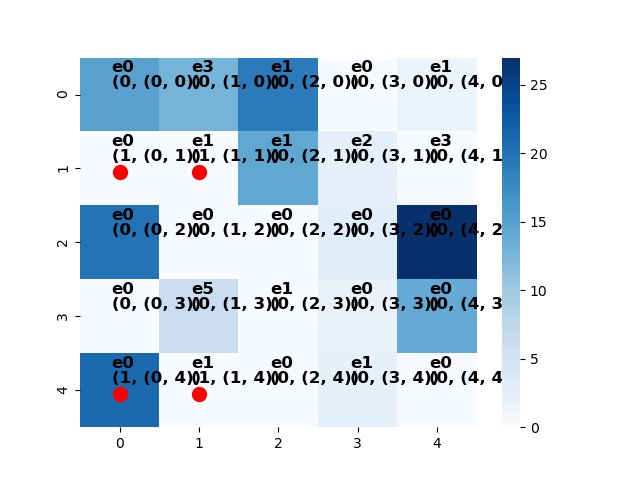
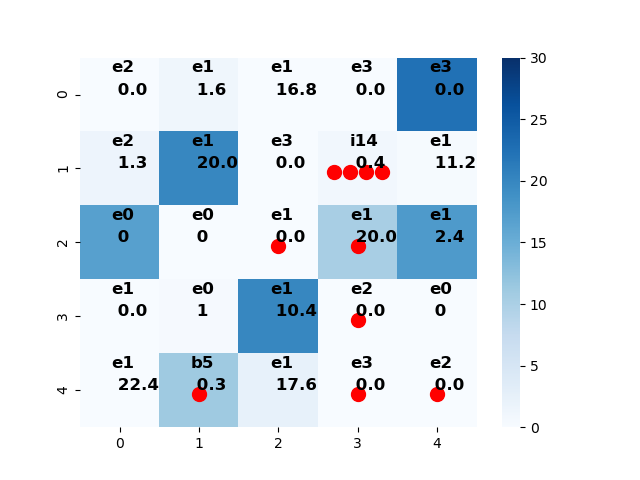
fixed animation plots

diff --git a/Run.py b/Run.py
@@ -4,7 +4,6 @@ from PIL import Image
 from classCell import *
 from classBoard import *
 from classScientist import *
-from classDepartment import *
 
 # def make_gif(frame_folder):
 #     frames = [Image.open(image) for image in glob.glob(f"{frame_folder}/*.JPG")]
@@ -22,11 +21,12 @@ def run(board, cellsHit, numRun):
         if len(val) > 1:
             # randomly choose order in which scientists hit that same cell
             sciOrder = np.random.permutation(val)
-            print("sciOrder: ", sciOrder)
             for scientist in sciOrder:
-                print("sciQuery: ", scientist.sciQuery(key, board))
+                scientist.sciQuery(key, board)
+                # print("scientist: ", scientist)
         else:
             val[0].sciQuery(key, board)
+            # print("scientist: ", val[0])
     board.drawBoard(cellsHit, numRun)
     return board
 
@@ -34,6 +34,7 @@ def batchRun(board, numScientists, numRuns):
     """
     Runs the simulation for each of numRuns years.
     During each run, each scientist in the department queries the board.
+    At the end, an animation of the plots of each run is generated.
     """
     dept = [Scientist() for i in range(numScientists)]
 
@@ -42,7 +43,6 @@ def batchRun(board, numScientists, numRuns):
         cellsHit = {}
         for scientist in dept:
             location = scientist.chooseCell(board)
-            print(scientist, location)
             if location in cellsHit.keys():
                 cellsHit[location].append(scientist)
             else:
@@ -51,7 +51,7 @@ def batchRun(board, numScientists, numRuns):
                 # when one scientist ends their career, another is introduced
                 dept.remove(scientist)
                 dept.append(Scientist())
-        print(run(board, cellsHit, j+1))
+        print("Board with payoff values: ", run(board, cellsHit, j+1))
         print()
 
     #animating plots
@@ -61,5 +61,5 @@ def batchRun(board, numScientists, numRuns):
             save_all=True, duration=500, loop=1)
     return
 
-board = Board(2, 2)
-batchRun(board, 4, 10)
+board = Board(5, 5)
+batchRun(board, 10, 10)

diff --git a/classBoard.py b/classBoard.py
@@ -23,11 +23,14 @@ class Board():
         return str(self.board)
 
     def getPayoffs(self):
+        """returns the payoff value for each cell of the board to make it easier
+        to get a 2D matrix of data"""
         return [[self.board[i][j].payoff for i in range(self.rows)] for j in range(self.cols)]
 
     def drawBoard(self, cellsHit, numRun):
+        """produces a plot of the board for a given run and saves the image"""
         data = self.getPayoffs()
-        hm = sn.heatmap(data = data, cmap="Blues")
+        hm = sn.heatmap(data = data, vmin = 0, vmax = 30, cmap="Blues")
         
         for i in range(self.rows):
             for j in range(self.cols):
@@ -45,7 +48,9 @@ class Board():
                 #(ex: B5 means breakthrough phase, hit 5 times)
                 hm.annotate(f"{cell.phase.name[0]}{cell.numHits}", xy = (j, i), xytext=(j+0.40, i+0.2),
                     fontsize=12, fontweight='bold')
-                hm.annotate(f"{numSciHits, (j, i)}", xy = (j,i), xytext = (i, j+0.4), fontsize=12, fontweight='bold')
+                hm.annotate(f" {round((cell.payoff), 1)}", xy = (j, i), xytext=(j+0.40, i+0.5),
+                    fontsize=12, fontweight='bold')
         
         plt.savefig(f'testplot{numRun}.png')
-        plt.show()
+        plt.clf()
+        #plt.show()
